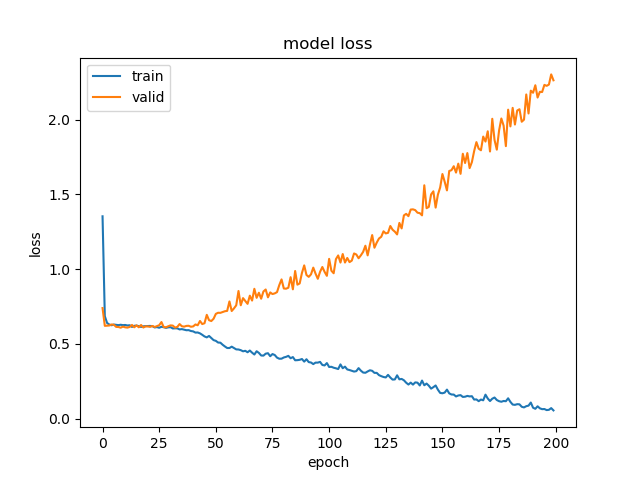
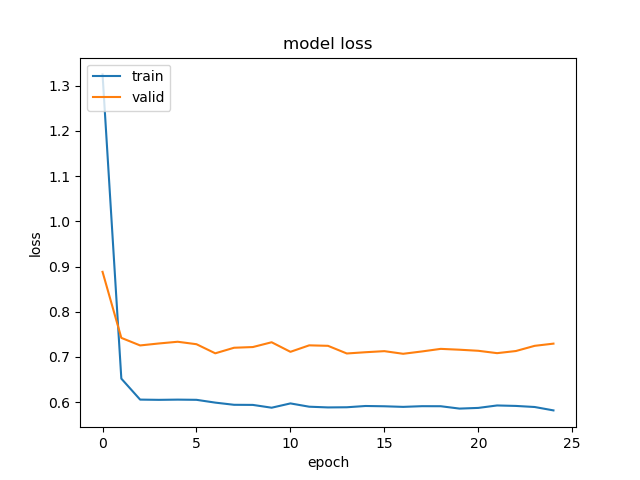
run with less epochs

diff --git a/Scripts/main.py b/Scripts/main.py
@@ -198,7 +198,7 @@ class AmbiguityMapper():
             net_model = Model(init_shape=(train_x.shape[1],), categories=categories_count)
             net_model.Create()
             net_model.Compile()
-            history = net_model.Train(train_x=train_x, train_y=train_y, eps=200, batches=64)
+            history = net_model.Train(train_x=train_x, train_y=train_y, eps=25, batches=64)
             net_model.ShowResultAccuracy(history)
             net_model.PlotResults(history, model_description=self._model_name)
 
